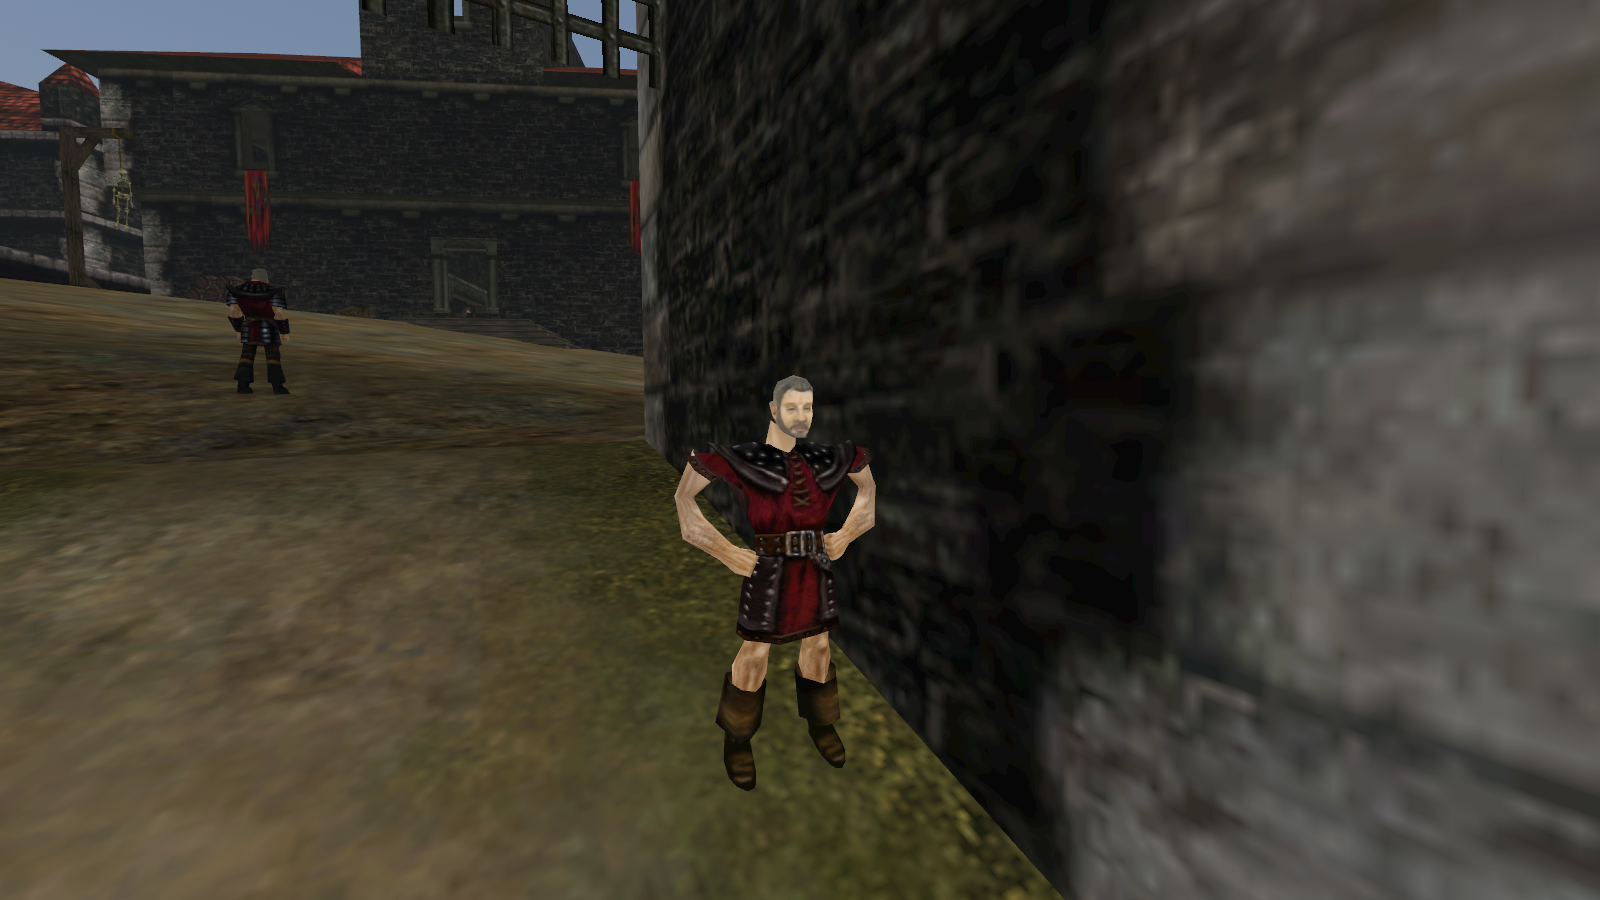
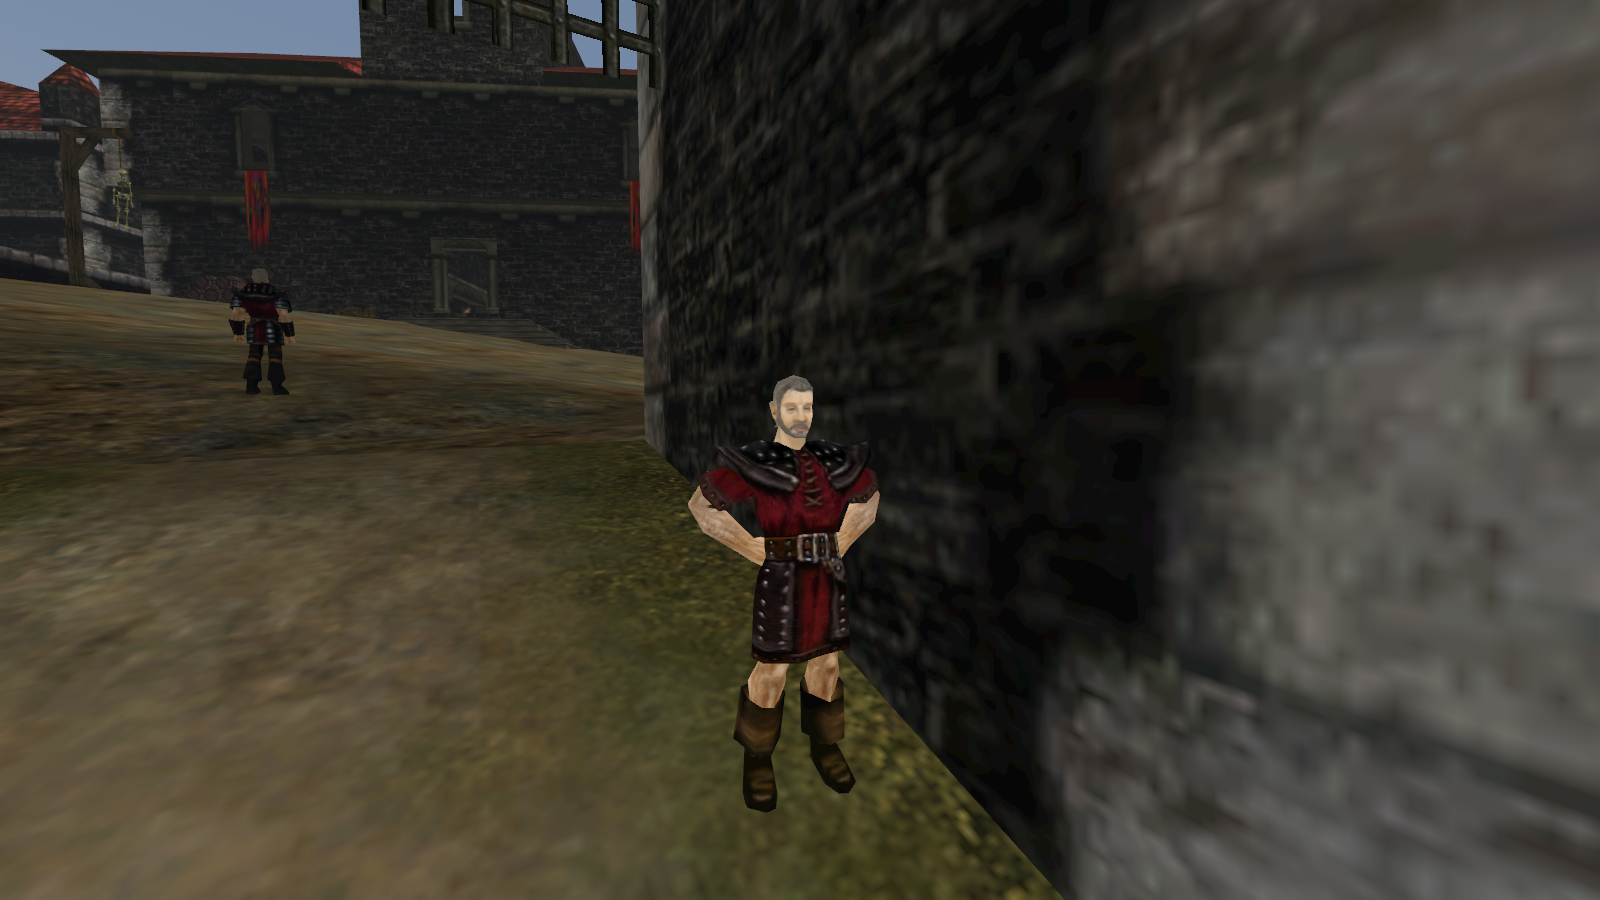
fix: Godot spike builds armours from the weights' bone offsets - armour meshes are modelled in another pose than the skeleton, the guards' arms looked off

Changed region(s): [[0.4062, 0.4667, 0.5625, 0.9022], [0.125, 0.3111, 0.1875, 0.4356]]

diff --git a/Godot/Scripts/Spike/HumanFactory.cs b/Godot/Scripts/Spike/HumanFactory.cs
@@ -37,6 +37,9 @@ namespace GothicGodot.Spike
         public Skin Skin { get; }
         public int RootNode { get; }
 
+        // Hierarchy rest pose in Gothic space (row vectors, centimetres) for the weight offsets of soft skins.
+        private readonly System.Numerics.Matrix4x4[] _gothicGlobals;
+
         public HumanFactory(Vfs vfs, TextureArrayBuilder textures, Material opaque, Material alpha)
         {
             _vfs = vfs;
@@ -51,9 +54,15 @@ namespace GothicGodot.Spike
             Rests = new Transform3D[nodes.Count];
             var globals = new Transform3D[nodes.Count];
             Skin = new Skin();
+            _gothicGlobals = new System.Numerics.Matrix4x4[nodes.Count];
 
             for (var i = 0; i < nodes.Count; i++)
             {
+                var gothicLocal = System.Numerics.Matrix4x4.Transpose(nodes[i].Transform);
+                if (nodes[i].ParentIndex < 0)
+                    gothicLocal.Translation = hierarchy.RootTranslation;
+                _gothicGlobals[i] = nodes[i].ParentIndex < 0 ? gothicLocal : gothicLocal * _gothicGlobals[nodes[i].ParentIndex];
+
                 BoneNames[i] = nodes[i].Name;
                 Parents[i] = nodes[i].ParentIndex;
                 var local = MeshPart.ToGodot(nodes[i].Transform);
@@ -178,8 +187,18 @@ namespace GothicGodot.Spike
         private void AddSoftSkin(ISoftSkinMesh soft, ArrayMesh mesh)
         {
             var mrm = soft.Mesh;
-            var positions = mrm.Positions;
             var weights = soft.Weights;
+
+            // Rest positions from the weights' bone offsets, like the engine: armours are modelled in another pose
+            // than the skeleton (HUM_GRDM_ARMOR: 13-19 cm off), only the naked body's positions match it.
+            var positions = new System.Numerics.Vector3[mrm.PositionCount];
+            for (var p = 0; p < positions.Length; p++)
+            {
+                var sum = System.Numerics.Vector3.Zero;
+                foreach (var entry in weights[p])
+                    sum += entry.Weight * System.Numerics.Vector3.Transform(entry.Position, _gothicGlobals[entry.NodeIndex]);
+                positions[p] = sum;
+            }
 
             foreach (var subMesh in mrm.SubMeshes)
             {

diff --git a/docs/wiki/Work-Log.md b/docs/wiki/Work-Log.md
@@ -10,7 +10,8 @@ Newest first.
 ![Shadow at a hut door](images/old-camp-hut-door.png)
 
 - **Humans**: HUMANS.MDH skeleton (34 bones) as a Skeleton3D, armours and bodies (.MDM soft skin) as skinned meshes with one Skin binding every node, heads (.MMB) on a BoneAttachment3D at "BIP01 HEAD", Gothic animations (.MAN: S_RUN, S_LGUARD, S_HGUARD, S_SIT) baked per frame and written bone by bone from C# every frame. Spawned at Old Camp waypoints, feet put on the ground by a ray.
-- Conversions that held: soft skin positions are the rest pose in model space (as in Gothic-Unity), bind poses from the hierarchy rest with the root at RootTranslation, animation rotations as `(x, y, -z, w)` of Gothic's stored quaternion (Gothic-Unity negates w; the z mirror flips x and y on top), root bone keeps only its height.
+- Armours are modelled in another pose than the skeleton: their soft skin positions are 13-19 cm (guard armour) or 3-4 cm (shadow armour) off the rest pose, only the naked body matches. The first renders used them and the guards' arms looked off. Vertices now come from the weights' own bone offsets (sum of weight x bone rest x offset), like the engine and Gothic-Unity's armour position cache.
+- Conversions that held: bind poses from the hierarchy rest with the root at RootTranslation, animation rotations as `(x, y, -z, w)` of Gothic's stored quaternion (Gothic-Unity negates w; the z mirror flips x and y on top), root bone keeps only its height.
 - **Mobs** (.ASC and .MDS visuals: beds, chairs, benches, chests, doors, torch holders, cauldrons): mesh attachments at their hierarchy nodes in rest pose, merged into the world cells like the static objects. 8610 objects of 351 meshes, 11 not found.
 - **Particles**: torches, fires, smoke, coal glow from their C_ParticleFX instances in PARTICLEFX.DAT (450 emitters, all found), on GPUParticles3D in Gothic's units (cm to m, ms to s, velocity cm/ms x10, gravity cm/ms² x10000), animated textures as flipbook atlases, ADD/BLEND/MUL blending. Gothic-Unity scales emission and velocity by guessed factors; this maps the units directly.
 - **Collision**: the merged world as Jolt trimesh shapes (979k triangles) built in about a second, used for ground snapping and to frame screenshots.
